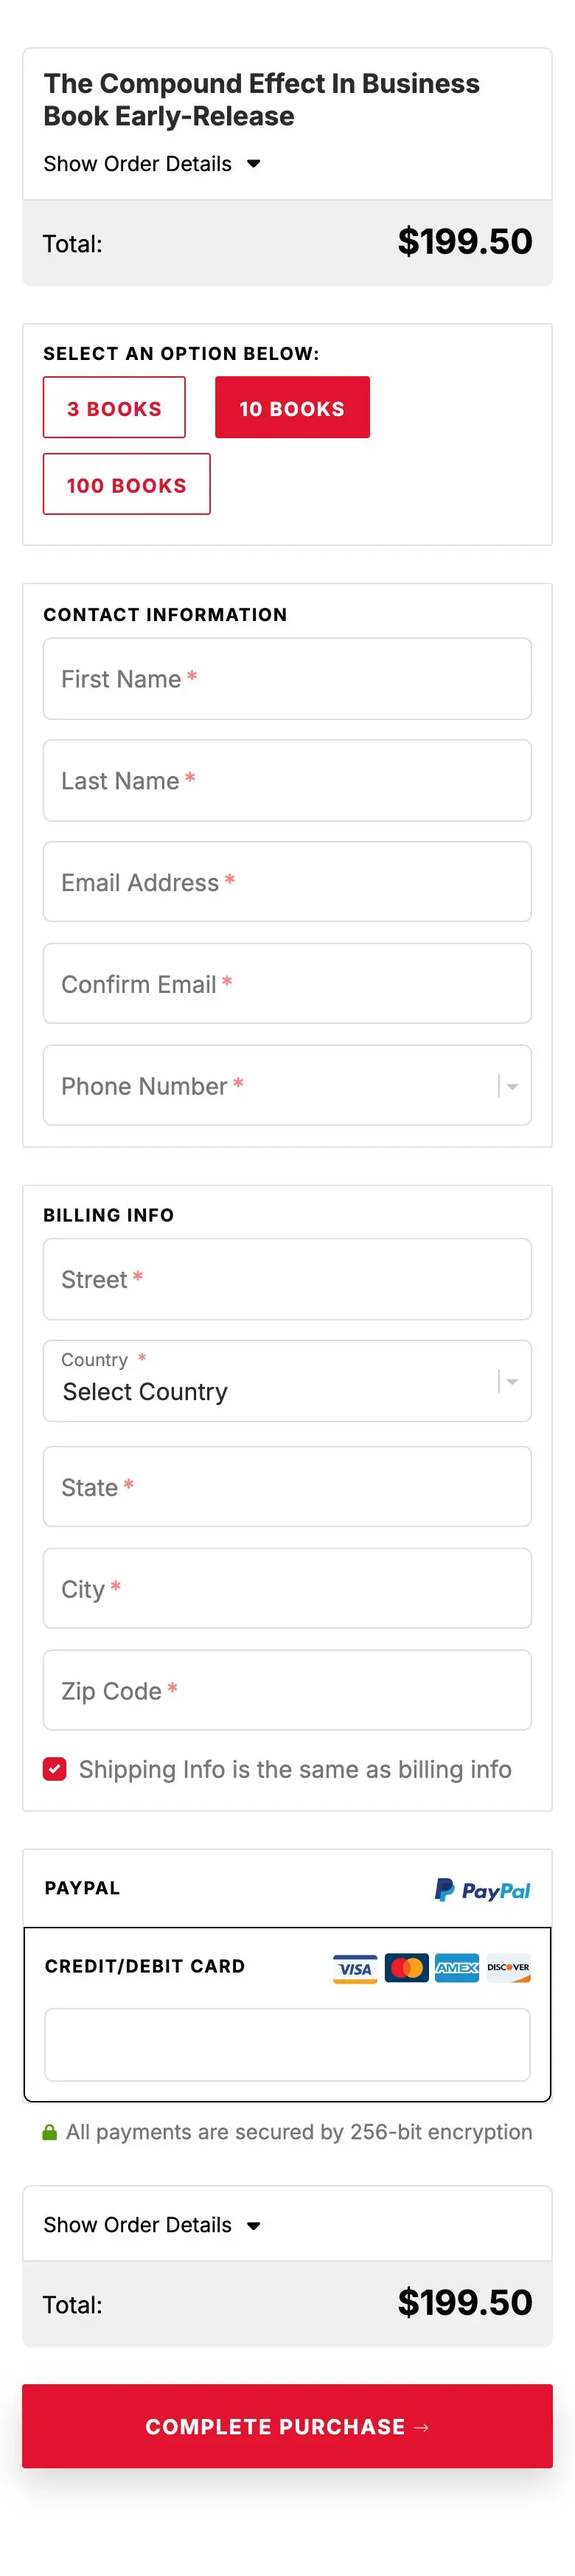
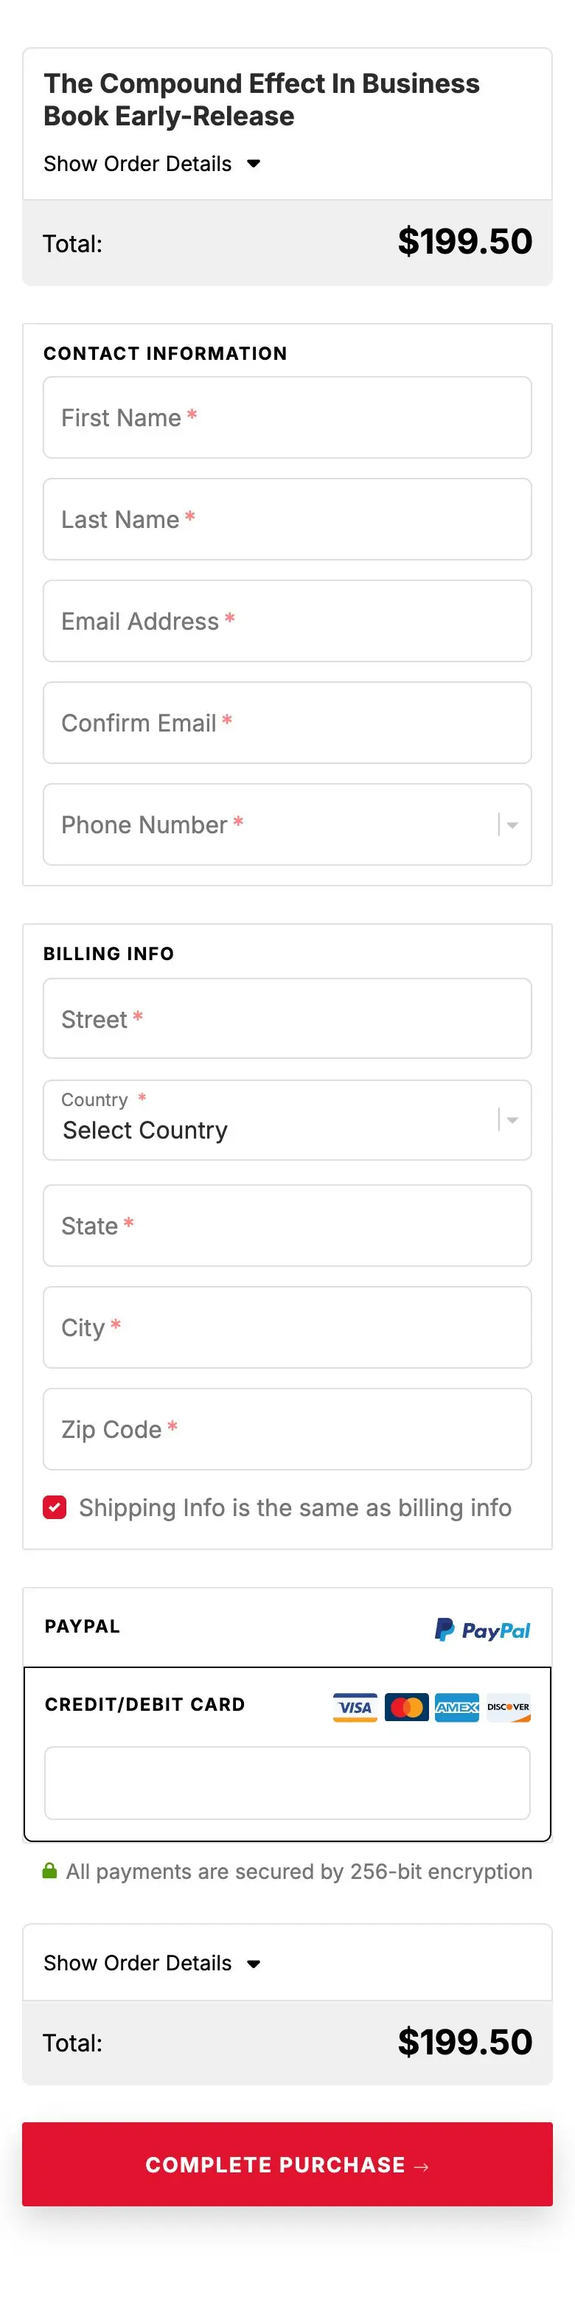
Spiffy CSS: hide the bundle box once a bundle is picked (fail-safe); preview updated

diff --git a/tce-mocks/pre-print/spiffy-css-preview.html b/tce-mocks/pre-print/spiffy-css-preview.html
@@ -63,12 +63,23 @@ footer{padding:32px 0 48px;font-size:12px;color:var(--grey)}
       <button type="button" aria-pressed="false" data-view="phone">Phone</button>
     </div>
     <div class="pair" id="pair-desktop">
-      <figure class="shot"><figcaption>Before · as it is today</figcaption><img src="spiffy-preview/desktop-before.webp" width="1520" height="3044" alt="The checkout today: pink total, pale pink option buttons, dark red button, Lato type"></figure>
-      <figure class="shot"><figcaption><b>After</b> · with the CSS</figcaption><img src="spiffy-preview/desktop-after.webp" width="1520" height="2804" alt="The checkout with the brand CSS: grey total, red outline option buttons, red button, Inter type"></figure>
+      <figure class="shot"><figcaption>Before · as it is today</figcaption><img src="spiffy-preview/desktop-before.webp?v=2" width="1520" height="3044" alt="The checkout today: pink total, pale pink option buttons, dark red button, Lato type"></figure>
+      <figure class="shot"><figcaption><b>After</b> · bundle arrives picked</figcaption><img src="spiffy-preview/desktop-after.webp?v=2" width="1520" height="2554" alt="The checkout with the brand CSS: grey total, red outline option buttons, red button, Inter type"></figure>
     </div>
     <div class="pair is-phone" id="pair-phone" hidden>
-      <figure class="shot"><figcaption>Before · as it is today</figcaption><img src="spiffy-preview/phone-before.webp" width="780" height="3872" alt="The checkout today on a phone" loading="lazy"></figure>
-      <figure class="shot"><figcaption><b>After</b> · with the CSS</figcaption><img src="spiffy-preview/phone-after.webp" width="780" height="3492" alt="The checkout with the brand CSS on a phone" loading="lazy"></figure>
+      <figure class="shot"><figcaption>Before · as it is today</figcaption><img src="spiffy-preview/phone-before.webp?v=2" width="780" height="3872" alt="The checkout today on a phone" loading="lazy"></figure>
+      <figure class="shot"><figcaption><b>After</b> · bundle arrives picked</figcaption><img src="spiffy-preview/phone-after.webp?v=2" width="780" height="3138" alt="The checkout with the brand CSS on a phone" loading="lazy"></figure>
+    </div>
+  </div>
+</section>
+
+<section>
+  <div class="wrap">
+    <h2>The fail-safe</h2>
+    <p class="lede" style="margin:0 0 28px">If the pre-select fix isn't working, or someone opens the checkout link directly, no bundle is picked. The box stays visible so they can still choose.</p>
+    <div class="pair">
+      <figure class="shot"><figcaption>Desktop · nothing picked yet</figcaption><img src="spiffy-preview/desktop-failsafe.webp" width="1520" height="2756" alt="Checkout with the CSS and no bundle picked: the bundle box is visible" loading="lazy"></figure>
+      <figure class="shot"><figcaption>Phone · nothing picked yet</figcaption><img src="spiffy-preview/phone-failsafe.webp" width="780" height="3342" alt="Checkout on a phone with no bundle picked: the bundle box is visible" loading="lazy" style="max-width:390px"></figure>
     </div>
   </div>
 </section>
@@ -85,7 +96,7 @@ footer{padding:32px 0 48px;font-size:12px;color:var(--grey)}
         <li><b>Total:</b> neutral grey band with a black price, instead of pink and red.</li>
         <li><b>Prices in the option buttons:</b> grey instead of green.</li>
         <li><b>Complete Purchase:</b> the brand red, uppercase, soft shadow, lifts on hover and never darkens.</li>
-        <li><b>The tier blurb</b> ("Achiever (3 Books)..."): hidden, because our cards already say it.</li>
+        <li><b>The whole "Select an option below" box:</b> hidden once a bundle is picked, because our cards already did the picking. The form starts at Contact Information.</li>
       </ul>
     </div>
     <div>
@@ -104,7 +115,7 @@ footer{padding:32px 0 48px;font-size:12px;color:var(--grey)}
   <div class="wrap">
     <h2>Worth knowing</h2>
     <p class="flag"><b>An exit-discount banner is set up on this checkout.</b> It has an "Apply Discount" button and a countdown timer. It's hidden until Spiffy decides to show it (usually when someone moves to leave the page), so it isn't in the screenshots. For an un-marketing page you may want it turned off in Spiffy. The CSS leaves it alone, because that's a business call, not a styling one.</p>
-    <p class="flag"><b>The 3 / 10 / 100 buttons stay visible on purpose.</b> Until the "pre-select from the link" fix is done in Spiffy, those buttons are how buyers pick their bundle inside the form. Once the fix works, one more line can hide them.</p>
+    <p class="flag"><b>The bundle box hides itself only when a bundle is already picked.</b> Once the "pre-select from the link" fix is done, the bundle chosen on our page arrives picked, so the box never shows. If the fix isn't working yet, nothing is picked, so the box stays visible and buyers can still choose. The checkout can't get stuck either way. (One side effect in that case: after a buyer picks inside the form, the box tucks away.)</p>
     <p class="flag"><b>This CSS only affects this one checkout.</b> It's added inside this checkout's own Design tab, so no other Spiffy checkout changes.</p>
   </div>
 </section>
@@ -196,6 +207,15 @@ body, .checkout, .checkout input, .checkout select, .checkout textarea,
 
 /* ---- 5. The tier blurb repeats the cards on our page: hide it ---- */
 #block-370970 {
+  display: none !important;
+}
+
+/* ---- 5b. Hide the whole &quot;Select an option below&quot; box ONCE A BUNDLE IS SELECTED ----
+   With the pre-select fix, the bundle chosen on our page arrives already selected,
+   so the box never shows. Fail-safe: if nothing is selected (pre-select not working,
+   or someone opens the checkout directly), the box stays visible so a bundle can
+   still be chosen and the order can&#x27;t get stuck. */
+#section-333440:has(.option-button-auto-width--selected) {
   display: none !important;
 }
 

diff --git a/tce-mocks/pre-print/spiffy-custom.css b/tce-mocks/pre-print/spiffy-custom.css
@@ -75,6 +75,15 @@ body, .checkout, .checkout input, .checkout select, .checkout textarea,
   display: none !important;
 }
 
+/* ---- 5b. Hide the whole "Select an option below" box ONCE A BUNDLE IS SELECTED ----
+   With the pre-select fix, the bundle chosen on our page arrives already selected,
+   so the box never shows. Fail-safe: if nothing is selected (pre-select not working,
+   or someone opens the checkout directly), the box stays visible so a bundle can
+   still be chosen and the order can't get stuck. */
+#section-333440:has(.option-button-auto-width--selected) {
+  display: none !important;
+}
+
 /* ---- 6. 3 / 10 / 100 option buttons: red outline, solid red when picked ---- */
 .checkout .option-button-auto-width:not(.option-button-auto-width--pill) {
   opacity: 1 !important;
